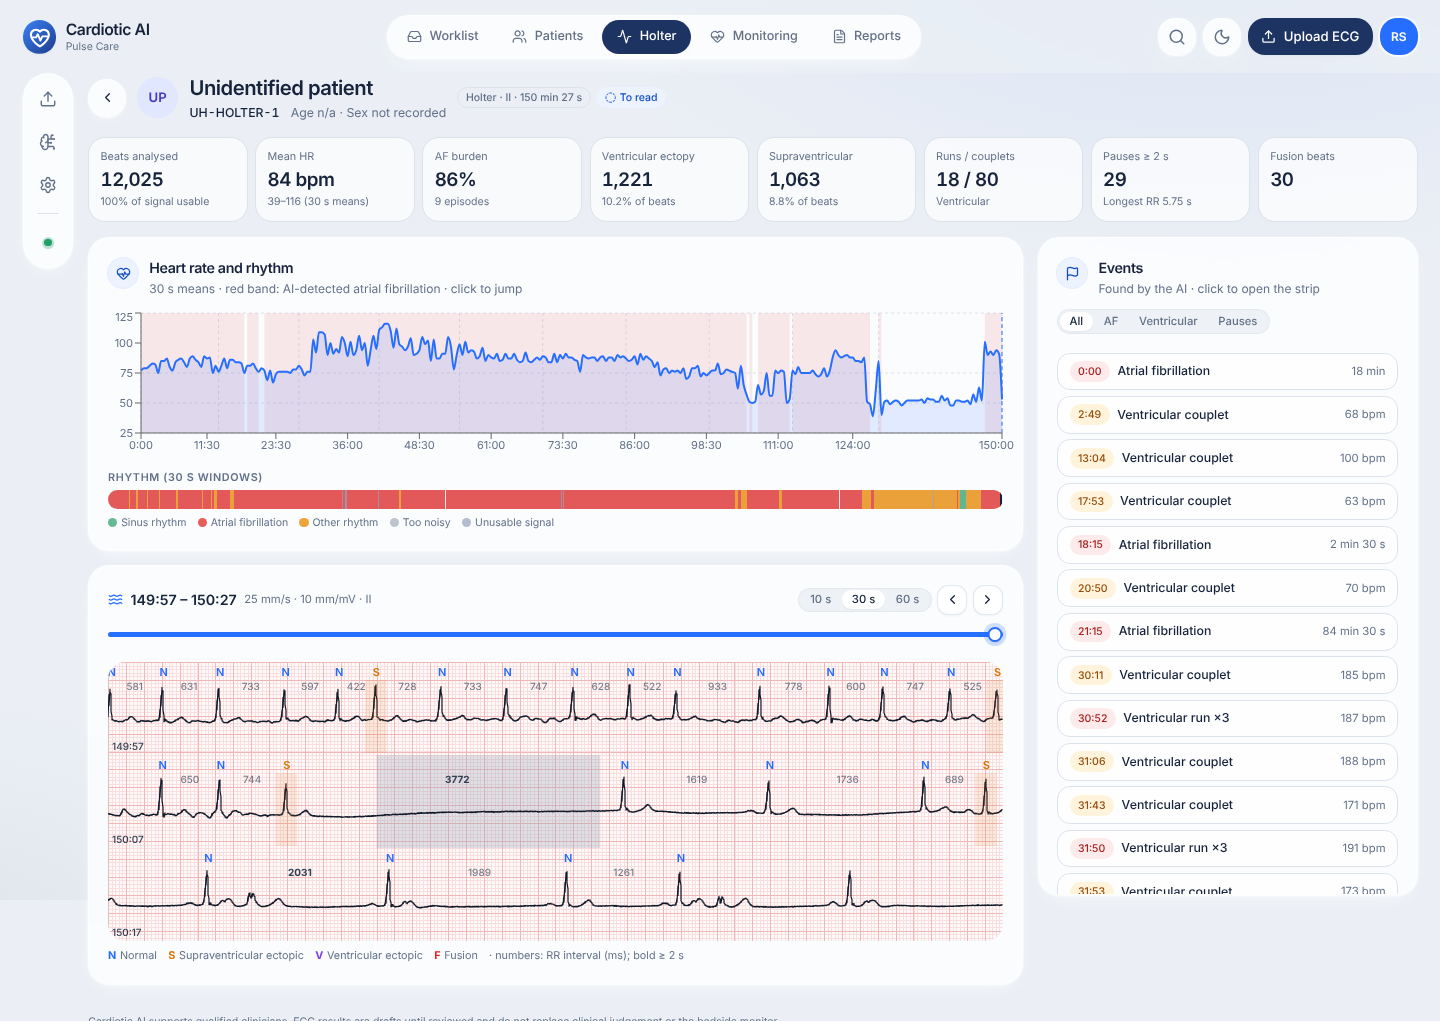
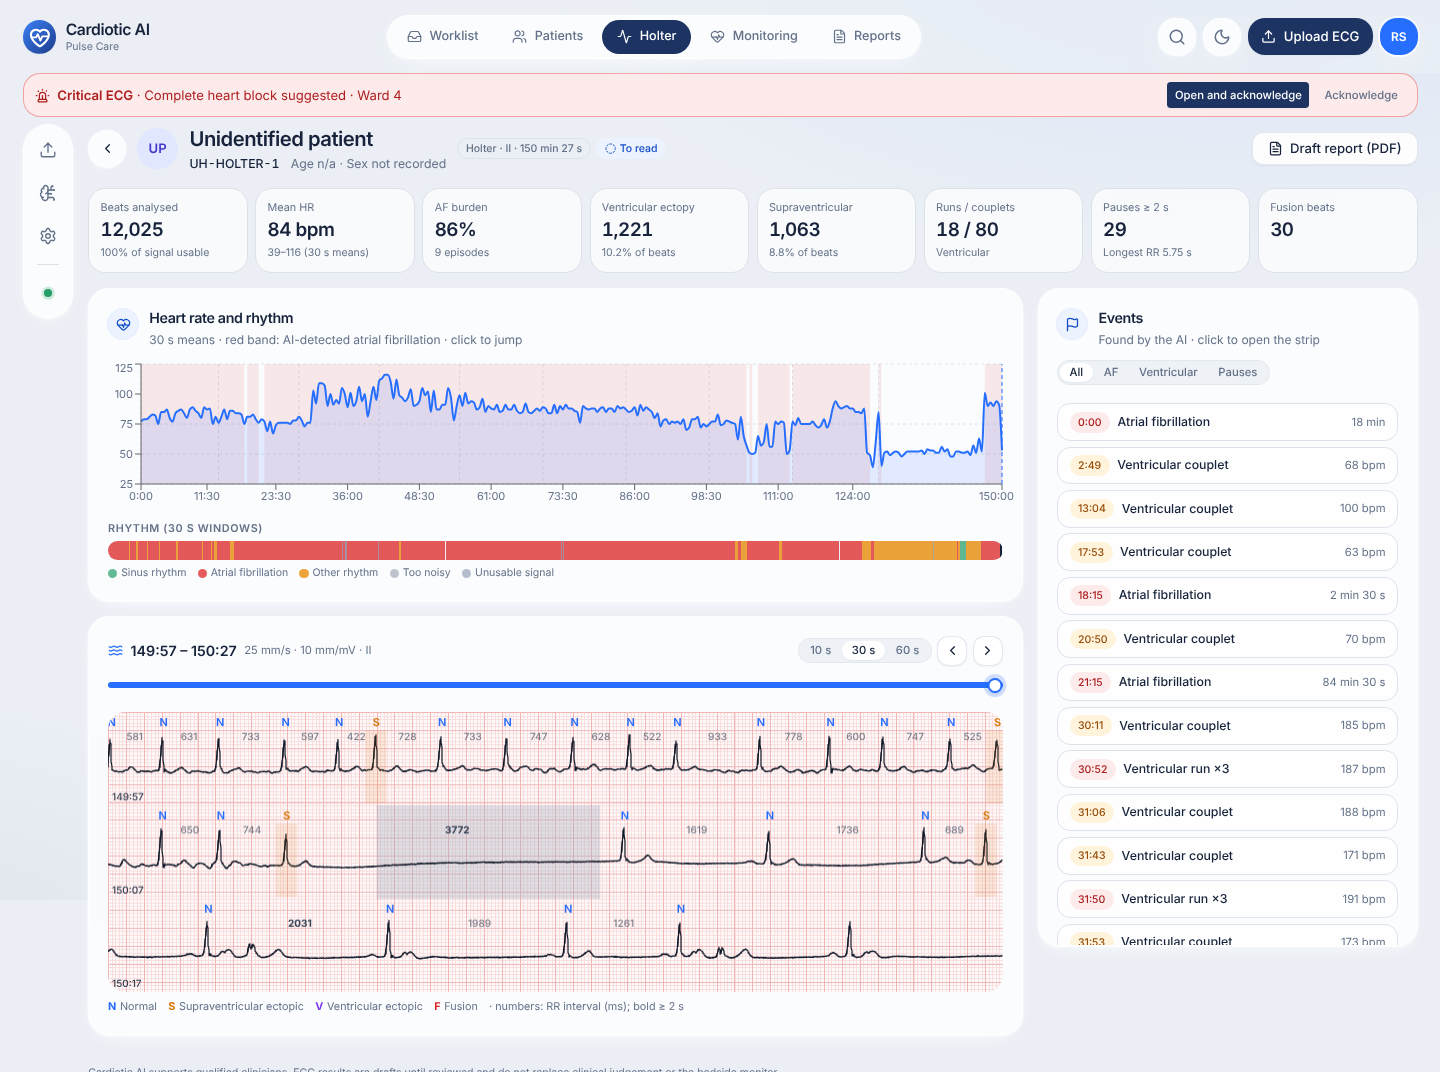
Container acceptance on the new image: Python 3.13, locked dependencies, keyed audit; refreshed screenshots and test report
Claude-Session: https://claude.ai/code/session_016A5QDcf73U16J3Q2Akv65x

diff --git a/deploy/test-report/index.html b/deploy/test-report/index.html
@@ -8,6 +8,6 @@ td.n{white-space:nowrap;font-variant-numeric:tabular-nums}.b{font-weight:700;fon
 h2{font-size:18px;margin:28px 0 12px}.g{display:grid;grid-template-columns:repeat(auto-fill,minmax(270px,1fr));gap:14px}
 figure{margin:0;background:var(--card);border-radius:14px;overflow:hidden;box-shadow:0 1px 3px #0001}figure img{width:100%;height:180px;object-fit:cover;object-position:top;display:block}
 figcaption{padding:8px 12px;font-size:13px;color:var(--mut);text-transform:capitalize}</style></head><body><main>
-<h1>Cardiotic AI — full test run</h1><p class=m>31 Oct 2026 · image cardiotic:0.1.0 · all suites passed</p>
-<div class=card><table><tr><th>Suite</th><th>Size</th><th>What it checks</th><th>Result</th></tr><tr><td>AI research code</td><td class=n>32 tests</td><td>signal processing, models, measurement rules, site thresholds, noise-note parser</td><td><span class='b pass'>PASS</span></td></tr><tr><td>Engine</td><td class=n>48 tests</td><td>model integrity, 11 file formats incl. Philips XLI, Huffman SCP-ECG and paper ECGs (PDF / scan / photo), site configuration, HTTP</td><td><span class='b pass'>PASS</span></td></tr><tr><td>Server</td><td class=n>53 tests</td><td>accounts, lockout, roles, upload, review and sign rules, audit chain, HL7 and FHIR with PDF, DICOM and folder feeds, ADT and orders, LDAP, OpenID Connect (real flow, forged tokens refused), two-factor, 24 h Holter, Live Assist, concurrency</td><td><span class='b pass'>PASS</span></td></tr><tr><td>Web app</td><td class=n>8 unit + 2 flows</td><td>typecheck, lint, unit tests, and the sample-build browser flows</td><td><span class='b pass'>PASS</span></td></tr><tr><td>Browser flows against a real server in Docker</td><td class=n>5 flows, 18 screenshots</td><td>sign-in, upload, reading, signing, report, HL7 and FHIR, audit, HIS queue, two-factor, 2.5 h Holter, Live Assist, paper ECG</td><td><span class='b pass'>PASS</span></td></tr><tr><td>Docker image as hospitals run it</td><td class=n>10 checks</td><td>non-root, read-only, models verified, restart keeps data, backup and audit verify, tampered model refused</td><td><span class='b pass'>PASS</span></td></tr><tr><td>Engine = research pipeline (real data)</td><td class=n>800 ECGs + 49,438 beats</td><td>identical findings; probabilities within 2×10⁻⁶</td><td><span class='b pass'>PASS</span></td></tr><tr><td>Digitiser on real ECGs</td><td class=n>40 ECGs, 3 inputs</td><td>vector PDF r = 1.000; scan r = 0.948; photo r = 0.943</td><td><span class='b pass'>PASS</span></td></tr><tr><td>Paper ECG, end to end (unseen test ECGs)</td><td class=n>196 ECGs</td><td>statement AUC original 0.920, PDF 0.913, scan 0.908</td><td><span class='b pass'>PASS</span></td></tr><tr><td>24 h Holter in sections</td><td class=n>115,818 beats</td><td>59 s, 1290 MB (one pass 2,800 MB); same beats and rhythm as one pass</td><td><span class='b pass'>PASS</span></td></tr></table></div>
-<h2>Browser flows inside the Docker container — 18 screenshots</h2><div class=g><figure><img src='../test-screenshots/01-sign-in.png'><figcaption>01 · sign in</figcaption></figure><figure><img src='../test-screenshots/02-wrong-password-refused.png'><figcaption>02 · wrong password refused</figcaption></figure><figure><img src='../test-screenshots/03-pdf-refused-with-reason.png'><figcaption>03 · pdf refused with reason</figcaption></figure><figure><img src='../test-screenshots/04-dicom-uploaded-and-analysed.png'><figcaption>04 · dicom uploaded and analysed</figcaption></figure><figure><img src='../test-screenshots/05-technician-sent-for-reading.png'><figcaption>05 · technician sent for reading</figcaption></figure><figure><img src='../test-screenshots/06-cardiologist-worklist.png'><figcaption>06 · cardiologist worklist</figcaption></figure><figure><img src='../test-screenshots/07-findings-decided-ready-to-sign.png'><figcaption>07 · findings decided ready to sign</figcaption></figure><figure><img src='../test-screenshots/08-signed.png'><figcaption>08 · signed</figcaption></figure><figure><img src='../test-screenshots/09-final-report.png'><figcaption>09 · final report</figcaption></figure><figure><img src='../test-screenshots/10-audit-log.png'><figcaption>10 · audit log</figcaption></figure><figure><img src='../test-screenshots/11-his-delivery-queue.png'><figcaption>11 · his delivery queue</figcaption></figure><figure><img src='../test-screenshots/12-users.png'><figcaption>12 · users</figcaption></figure><figure><img src='../test-screenshots/13-two-factor-set-up.png'><figcaption>13 · two factor set up</figcaption></figure><figure><img src='../test-screenshots/14-two-factor-code-required.png'><figcaption>14 · two factor code required</figcaption></figure><figure><img src='../test-screenshots/15-security-settings.png'><figcaption>15 · security settings</figcaption></figure><figure><img src='../test-screenshots/16-holter-2h30-sections.png'><figcaption>16 · holter 2h30 sections</figcaption></figure><figure><img src='../test-screenshots/17-live-assist.png'><figcaption>17 · live assist</figcaption></figure><figure><img src='../test-screenshots/18-paper-ecg-digitised.png'><figcaption>18 · paper ecg digitised</figcaption></figure></div></main></body></html>
+<h1>Cardiotic AI — full test run</h1><p class=m>05 Nov 2026 · image cardiotic:0.1.0 · all suites passed</p>
+<div class=card><table><tr><th>Suite</th><th>Size</th><th>What it checks</th><th>Result</th></tr><tr><td>AI research code</td><td class=n>32 tests</td><td>signal processing, models, measurement rules, site thresholds, noise-note parser</td><td><span class='b pass'>PASS</span></td></tr><tr><td>Engine</td><td class=n>53 tests</td><td>model integrity, 11 file formats incl. Philips XLI, Huffman SCP-ECG and paper ECGs (PDF / scan / photo), site configuration, HTTP</td><td><span class='b pass'>PASS</span></td></tr><tr><td>Server</td><td class=n>115 tests</td><td>accounts, lockout, roles, upload, review and sign rules, audit chain, HL7 and FHIR with PDF, DICOM and folder feeds, ADT and orders, LDAP, OpenID Connect (real flow, forged tokens refused), two-factor, 24 h Holter, Live Assist, concurrency</td><td><span class='b pass'>PASS</span></td></tr><tr><td>Web app</td><td class=n>28 unit tests, 2 static flows</td><td>typecheck, lint, unit tests, and the sample-build browser flows</td><td><span class='b pass'>PASS</span></td></tr><tr><td>Browser flows against a real server in Docker</td><td class=n>10 flows, 19 screenshots</td><td>sign-in, upload, reading, signing with password confirmation, report, HL7 and FHIR, audit, HIS queue, forced password change, critical-result banner, two-factor, Holter (relabel, sign, PDF), site thresholds, record search, 2.5 h Holter, Live Assist, paper ECG</td><td><span class='b pass'>PASS</span></td></tr><tr><td>Docker image as hospitals run it</td><td class=n>10 checks</td><td>non-root, read-only, models verified (Python 3.13, hashed lock file), restart keeps data, backup and keyed audit chain verify, tampered model refused</td><td><span class='b pass'>PASS</span></td></tr><tr><td>Engine = research pipeline (real data)</td><td class=n>800 ECGs + 49,438 beats</td><td>identical findings; probabilities within 2×10⁻⁶</td><td><span class='b pass'>PASS</span></td></tr><tr><td>Digitiser on real ECGs</td><td class=n>40 ECGs, 3 inputs</td><td>vector PDF r = 1.000; scan r = 0.948; photo r = 0.943</td><td><span class='b pass'>PASS</span></td></tr><tr><td>Paper ECG, end to end (unseen test ECGs)</td><td class=n>196 ECGs</td><td>statement AUC original 0.920, PDF 0.913, scan 0.908</td><td><span class='b pass'>PASS</span></td></tr><tr><td>24 h Holter in sections</td><td class=n>115,818 beats</td><td>59 s, 1290 MB (one pass 2,800 MB); same beats and rhythm as one pass</td><td><span class='b pass'>PASS</span></td></tr></table></div>
+<h2>Browser flows inside the Docker container — 19 screenshots</h2><div class=g><figure><img src='../test-screenshots/01-sign-in.png'><figcaption>01 · sign in</figcaption></figure><figure><img src='../test-screenshots/02-wrong-password-refused.png'><figcaption>02 · wrong password refused</figcaption></figure><figure><img src='../test-screenshots/03-pdf-refused-with-reason.png'><figcaption>03 · pdf refused with reason</figcaption></figure><figure><img src='../test-screenshots/04-dicom-uploaded-and-analysed.png'><figcaption>04 · dicom uploaded and analysed</figcaption></figure><figure><img src='../test-screenshots/05-technician-sent-for-reading.png'><figcaption>05 · technician sent for reading</figcaption></figure><figure><img src='../test-screenshots/06-cardiologist-worklist.png'><figcaption>06 · cardiologist worklist</figcaption></figure><figure><img src='../test-screenshots/07-findings-decided-ready-to-sign.png'><figcaption>07 · findings decided ready to sign</figcaption></figure><figure><img src='../test-screenshots/08-confirm-signature.png'><figcaption>08 · confirm signature</figcaption></figure><figure><img src='../test-screenshots/09-signed.png'><figcaption>09 · signed</figcaption></figure><figure><img src='../test-screenshots/10-final-report.png'><figcaption>10 · final report</figcaption></figure><figure><img src='../test-screenshots/11-audit-log.png'><figcaption>11 · audit log</figcaption></figure><figure><img src='../test-screenshots/12-his-delivery-queue.png'><figcaption>12 · his delivery queue</figcaption></figure><figure><img src='../test-screenshots/13-two-factor-set-up.png'><figcaption>13 · two factor set up</figcaption></figure><figure><img src='../test-screenshots/13-users.png'><figcaption>13 · users</figcaption></figure><figure><img src='../test-screenshots/14-two-factor-code-required.png'><figcaption>14 · two factor code required</figcaption></figure><figure><img src='../test-screenshots/15-security-settings.png'><figcaption>15 · security settings</figcaption></figure><figure><img src='../test-screenshots/16-holter-2h30-sections.png'><figcaption>16 · holter 2h30 sections</figcaption></figure><figure><img src='../test-screenshots/17-live-assist.png'><figcaption>17 · live assist</figcaption></figure><figure><img src='../test-screenshots/18-paper-ecg-digitised.png'><figcaption>18 · paper ecg digitised</figcaption></figure></div></main></body></html>

diff --git a/frontend/e2e-server/server-flow.spec.ts b/frontend/e2e-server/server-flow.spec.ts
@@ -112,7 +112,7 @@ test("real sign-in, upload, reading, signing, delivery queue and audit", async (
   await expect(page.getByText("Uploaded ECG").first()).toBeVisible();
   await snap(page, "audit-log");
   await page.goto("/settings/integrations");
-  await expect(page.getByText("queued")).toBeVisible();
+  await expect(page.getByText(/queued/).first()).toBeVisible(); // one per signed report (12-lead and Holter)
   await snap(page, "his-delivery-queue");
   await page.goto("/settings/users");
   await expect(page.getByText("rsawant")).toBeVisible();

diff --git a/deploy/make_test_report.py b/deploy/make_test_report.py
@@ -15,8 +15,8 @@ rows = [
  ("Engine", arg["engine"], "model integrity, 11 file formats incl. Philips XLI, Huffman SCP-ECG and paper ECGs (PDF / scan / photo), site configuration, HTTP", "pass"),
  ("Server", arg["server"], "accounts, lockout, roles, upload, review and sign rules, audit chain, HL7 and FHIR with PDF, DICOM and folder feeds, ADT and orders, LDAP, OpenID Connect (real flow, forged tokens refused), two-factor, 24 h Holter, Live Assist, concurrency", "pass"),
  ("Web app", arg["web"], "typecheck, lint, unit tests, and the sample-build browser flows", "pass"),
- ("Browser flows against a real server in Docker", arg["browser"], "sign-in, upload, reading, signing, report, HL7 and FHIR, audit, HIS queue, two-factor, 2.5 h Holter, Live Assist, paper ECG", "pass"),
- ("Docker image as hospitals run it", arg["docker"], "non-root, read-only, models verified, restart keeps data, backup and audit verify, tampered model refused", "pass"),
+ ("Browser flows against a real server in Docker", arg["browser"], "sign-in, upload, reading, signing with password confirmation, report, HL7 and FHIR, audit, HIS queue, forced password change, critical-result banner, two-factor, Holter (relabel, sign, PDF), site thresholds, record search, 2.5 h Holter, Live Assist, paper ECG", "pass"),
+ ("Docker image as hospitals run it", arg["docker"], "non-root, read-only, models verified (Python 3.13, hashed lock file), restart keeps data, backup and keyed audit chain verify, tampered model refused", "pass"),
  ("Engine = research pipeline (real data)", f"{sum(v.get('ecgs', 0) for v in eq['sets'].values())} ECGs + {eq['sets'][[k for k in eq['sets'] if 'MIT' in k][0]].get('beats', 0):,} beats", "identical findings; probabilities within 2×10⁻⁶", "pass" if eq["passed"] else "fail"),
  ("Digitiser on real ECGs", f"{dg['ecgs']} ECGs, 3 inputs", f"vector PDF r = {dg['kinds']['vector PDF']['median_correlation']:.3f}; scan r = {dg['kinds']['scan, 200 dpi']['median_correlation']:.3f}; photo r = {dg['kinds']['rotated, blurred JPEG (photo)']['median_correlation']:.3f}", "pass"),
  ("Paper ECG, end to end (unseen test ECGs)", f"{e2e['ecgs']} ECGs", f"statement AUC original {e2e['macro_auc']['original, masked']['all']:.3f}, PDF {e2e['macro_auc']['vector PDF']['all']:.3f}, scan {e2e['macro_auc']['scan, 200 dpi']['all']:.3f}", "pass"),
